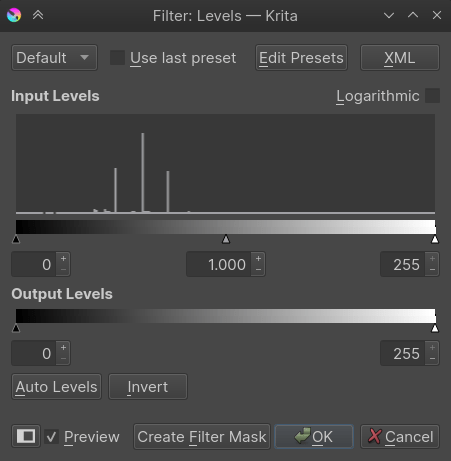
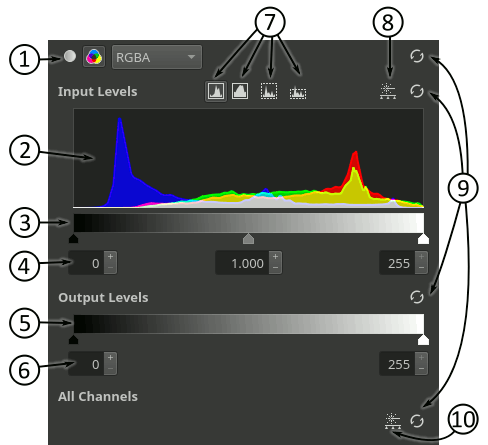
Add info for the new levels filter features

diff --git a/reference_manual/filters/adjust.rst b/reference_manual/filters/adjust.rst
@@ -63,9 +63,38 @@ The default shortcut for levels filter is :kbd:`Ctrl + L`.
 
 .. image:: /images/filters/Levels-filter.png
 
-This is very useful to do an initial cleanup of scanned lineart or grayscale images. If the scanned lineart is light you can slide the black triangle to right to make it darker or if you want to remove the gray areas you can slide the white slider to left.
+1. With these two buttons you can switch between "lightness only" and "per channel" levels adjustment. If you use the second mode you can modify the levels for each channel independently and you can change the active channel by selecting it in the list that appears at the right side of the buttons.
+2. This area shows the histogram for the active channel.
+3. This is a slider that you can use to quickly change the input black and white points and gamma.
+4. These input boxes do the same as the input levels slider, but allow you to finetune the values.
+5. This is a slider that you can use to quickly change the output black and white ponts.
+6. These input boxes do the same as the output levels slider, but allow you to finetune the values.
+7. These buttons allow you to control the visualization of the histogram. The first button makes it use a linear scale (the default). The second one makes it use a logarithmic scale. The third one changes its vertical size to fit the whole histogram in the area. The forth one changes the vertical size to fit in the area most of the histogram but cutting long peaks produced by outliers. You can also change the size of the histogram by clicking and dragging verticaly on the area or by double-clicking to change between "fit all" and "fit cutting long peaks".
+8. This button brings up the auto levels dialog for the current channel.
+9. These buttons allow you to reset (from top to bottom) the levels of the current channel, the input levels of the current channel, the output levels of the current channel, and the levels of all the channels.
+10. This button brings up the multi-channel auto levels dialog (only available in the RGBA color model).
 
-Auto levels is a quick way to adjust tone of an image.
+This filter is very useful to do an initial cleanup of scanned lineart or grayscale images. If the scanned lineart is light you can slide the black handle in the input levels to the right to make it darker or if you want to remove the gray areas you can slide the white handle to the left.
+
+Auto levels is a quick way to adjust tone of an image. You can update the levels of the filter automaticaly by using the auto levels dialog that appears when clicking one of the buttons explained earlier:
+
+.. versionadded:: 5.1
+
+.. image:: /images/filters/Levels-filter-autolevels.png
+
+* :guilabel:`Shadows and Highlights`: In this group of widgets you can select how the shadows and highlights are enhanced.
+
+    * :guilabel:`Method`: this is available only in the RGBA color model when using the multi-channel autolevels and allows you to select if you want to apply the same input levels to all the channels or different input levels to each.
+    * :guilabel:`Shadows clipping` and :guilabel:`Highlights clipping`: these parameters tell the percentage of dark/light colors that are going to be clipped. This is useful when the histogram has long, low valued, tails at the shadows/highlights extremes.
+    * :guilabel:`Maximum offset`: this allows to set how much the input black and white points can be moved from their relative extremes.
+    * :guilabel:`Shadows color` and :guilabel:`Highlights color`: allows you to choose which colors should be used for the output shadows/highlights.
+
+* :guilabel:`Midtones`: In this group of widgets you can select how the midtones are enhanced.
+
+    * :guilabel:`Method`: here you can choose not to enhance the midtones or a method to find the midtone point of the image using the median or the mean of the histogram.
+    * :guilabel:`Amount`: with this parameter you can choose how much the final midtone point used to adjust the image differs from the center of the histogram. If you choose 0% then the center of the histogram is used as midtone point (which meand no correction except for the output color). If you choose 100% then the median or mean is used (depending on the method selected). And if you choose a value inbetween then a midtone point between those is used by linearly interpolating them.
+    * :guilabel:`Color`: allows you to choose which color should be used for the output midtones.
+    
 If you want to change the settings later you can click on the :guilabel:`Create Filter Mask` button to add the levels as a filter mask.
 
 .. index:: Color Adjustment Curves, RGB Curves, Curves Filter
